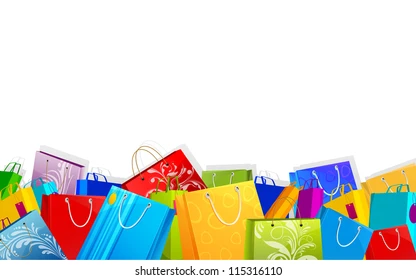
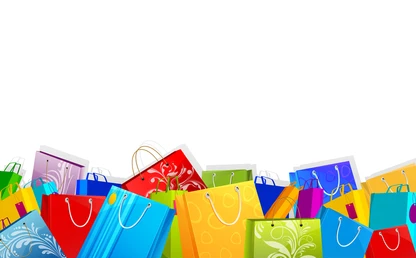
Fixed Login page

diff --git a/tredara-frontend/src/pages/SignIn.tsx b/tredara-frontend/src/pages/SignIn.tsx
@@ -1,12 +1,17 @@
 // Node modules
 import { FormEvent, useState } from "react";
 import { Link, useNavigate } from "react-router-dom";
+import Form from "react-bootstrap/Form";
+
+import Logo from "assets/images/logo-icon.png";
+import { Key, Person } from "react-bootstrap-icons";
 
 // Project files
 import ListInput from "components/ListInput";
 import Fields from "data/fields-sign-in.json";
 import iUser from "interfaces/iUser";
 import { useUser } from "state/UserContext";
+import { Button, Col, Container, InputGroup, Row } from "react-bootstrap";
 
 export default function SignIn() {
   // Global state
@@ -47,19 +52,39 @@ export default function SignIn() {
   }
 
   return (
-    <div id="sign-in" className="login">
-      <div className="container">
-        <h1>Sign In</h1>
-        <form onSubmit={(event) => onSubmit(event)}>
-          <ListInput fields={Fields} state={[form, setForm]} />
-          <button className="btn btn-primary">Sign in</button>
-        </form>
-        <footer>
-          <p>
-            New to Tradera ? <Link to="/signup">Sign up now</Link>.
-          </p>
-        </footer>
-      </div>
-    </div>
+    <Container id="sign-in" className="login">
+      <Container className="d-flex justify-content-center h-100">
+        <Container className="user_card">
+          <Container className="d-flex justify-content-center">
+            <Container className="brand_logo_container">
+              <img src={Logo} className="brand_logo" alt="Logo" />
+            </Container>
+          </Container>
+          <Container>
+            <Form onSubmit={(event) => onSubmit(event)}>
+              <h2 style={{ textAlign: "center" }}>Welcome to Tredara</h2>
+              <ListInput fields={Fields} state={[form, setForm]} />
+              <Form.Group as={Row} className="mb-3 d-flex login-footer">
+                <Form.Label column sm={8}>
+                  Don't have an account?
+                  <Link
+                    to="/signup"
+                    style={{ marginLeft: "0.5rem", color: "#0d6efd" }}
+                    className="ml-2 "
+                  >
+                    Sign Up
+                  </Link>
+                </Form.Label>
+                <Col sm={4} className="d-flex justify-content-end">
+                  <Button type="submit" className="btn btn-primary login_btn">
+                    Login
+                  </Button>
+                </Col>
+              </Form.Group>
+            </Form>
+          </Container>
+        </Container>
+      </Container>
+    </Container>
   );
 }

diff --git a/tredara-frontend/src/styles/pages/signIn.css b/tredara-frontend/src/styles/pages/signIn.css
@@ -1,35 +1,56 @@
 .login {
   height: 100vh;
   background: url("../../assets/images/bag.png");
-  background-size: cover;
-}
+  background-attachment: fixed;
+  background-position: bottom;
+  background-repeat: repeat-x;
 
-.login .container {
-  place-items: center;
-  padding: 5px;
-  border-radius: var(--radius);
-  width: 480px;
-  padding-top: 225px;
-  justify-items: center;
 }
+.user_card {
+  height: 350px;
+  width: 500px;
+  margin-top: auto;
+  margin-bottom: auto;
+  background: rgb(251, 247, 247);
+  position: relative;
+  display: flex;
+  justify-content: end;
+  flex-direction: column;
+  padding: 10px;
+  box-shadow: 0 4px 8px 0 rgba(0, 0, 0, 0.2), 0 6px 20px 0 rgba(0, 0, 0, 0.19);
+  -webkit-box-shadow: 0 4px 8px 0 rgba(0, 0, 0, 0.2), 0 6px 20px 0 rgba(0, 0, 0, 0.19);
+  -moz-box-shadow: 0 4px 8px 0 rgba(0, 0, 0, 0.2), 0 6px 20px 0 rgba(0, 0, 0, 0.19);
+  border-radius: 5px;
 
-.login form {
-  margin-bottom: var(--space-small);
 }
-
-.login .input {
-  margin-bottom: var(--space-small);
-}
-
-.login footer {
-  margin-left: 120px;
-}
-.login button {
-  color: white;
+.brand_logo_container {
+  position: absolute;
+  height: 120px;
+  width: 120px;
+  top: -45px;
+  border-radius: 50%;
+  background: white;
+  padding: 10px;
   text-align: center;
-  text-decoration: none;
-  display: inline-block;
-  font-size: 16px;
-  width: auto;
-  margin-left: 200px;
+}
+.brand_logo {
+  height: 100px;
+  width: 100px;
+  border-radius: 50%;
+  border: 2px solid white;
+}
+.login_btn {
+  width: 50%;
+  color: white !important;
+}
+.svg {
+  background: #0d6efd !important;
+  color: white !important;
+  border: 0 !important;
+  border-radius: 0.25rem 0 0 0.25rem !important;
+  height: auto;
+  width: 15%;
+}
+.login-footer{
+  margin-top: 6%;
 }
